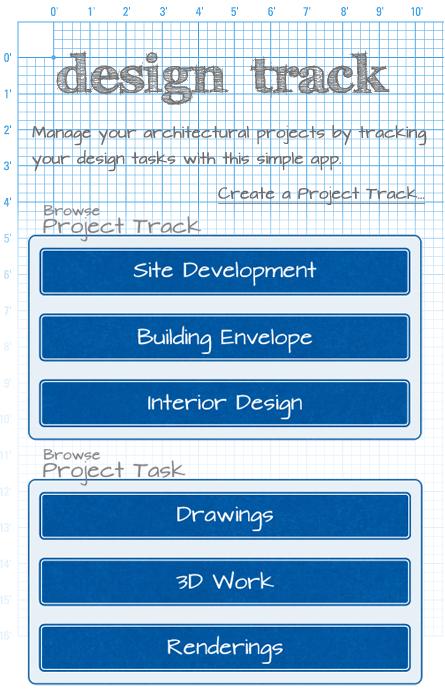
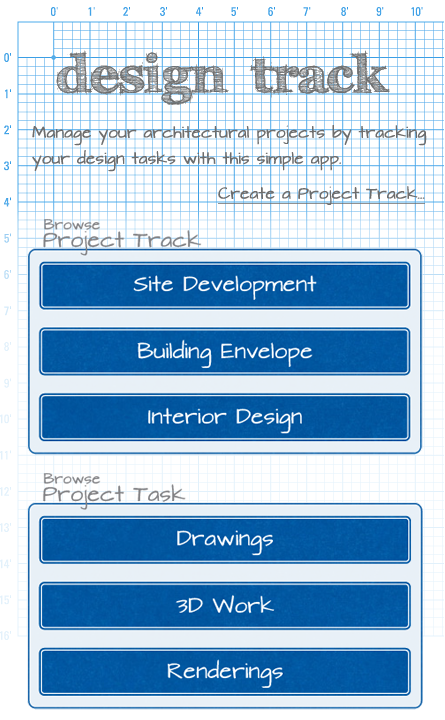
changes 04

diff --git a/CSS/stylehp.css b/CSS/stylehp.css
@@ -171,16 +171,16 @@ label{
 	text-align: right;
 }
 
-#feature{
-	
-}
 
 
 Body{
 	color:#284767;
 	font: 13px "Helvetica Neue", Arial, Helvetica, Geneva, sans-serif;
-	background: url(../Image/BG%20graphpaper.png) no-repeat 0 40px #ffffff;
-	height: 740px;
+	height: 750px;
+	background: url(../Image/BG%20graphpaper.png) no-repeat 0 40px;
+	/*-moz-box-shadow: 0 0;
+	-webkit-box-shadow: 0 0;
+	box-shadow: 0 0;*/
 }
 
 #addProject{
@@ -203,42 +203,46 @@ Body{
 }*/
 
 
-#Browse{
-	margin-top: 240px;
-	border: 2px solid white;
+/*#Browse{
+	/*margin-top: 240px;
+	/*border: 2px solid white;*!/
 	width: 410px;
 	height: 230px;
-	padding-top: 10px;
+	padding-top: 10px;*!/
+}*/
+
+#siteDeve{
+	/*background: url(../Image/siteDevelopment.png) no-repeat;
+	width: 300px;*/
 }
 
 #listOne{
-	background: url(../Image/BrwsProjectTrack.png) no-repeat 0 0;
-	margin-right: 0;
+	
 }
 
-.brws{
+/*.brws{
 	width: 410px;
 	margin-left: -40px;
+}*/
+
+
+/*#prjTrackTl{
+	text-shadow: 2px 2px 2px rgba(255, 255, 255, 0.75);
+	color: #284767;
+	font-size: 20px;
+	margin-top: 0;*/
 }
 
-
-#prjTrackTl{
+/*#browsePrj{
 	text-shadow: 2px 2px 2px rgba(255, 255, 255, 0.75);
 	color: #284767;
 	font-size: 20px;
 	margin-top: 0;
-}
-
-#browsePrj{
-	text-shadow: 2px 2px 2px rgba(255, 255, 255, 0.75);
-	color: #284767;
-	font-size: 20px;
-	margin-top: 0;
-}
+}*/
 
 
 
-#mess{
+/*#mess{
 	color: white;
 	font-size: 13px;
 	padding-top: 10px;
@@ -246,5 +250,5 @@ Body{
 	padding-left: 20px;
 	margin-bottom: -10px;
 	width: 410px;
-}
+}*/
 

diff --git a/homepage.html b/homepage.html
@@ -23,7 +23,6 @@
 			<input type="search" value="Search a Project" id="searchProject"/><input type="submit" value="Search" id="searchField"/>	
 		</header>
 		
-		<div id="feature">
 			<!--<h1>Design Track</h1>-->
 			<!--<p id="mess">Manage your architectural projects by tracking your design tasks with this simple app.</p>-->
 			<!--<fieldset id="createProject">-->
@@ -33,21 +32,21 @@
 			<!--</fieldset>-->
 		
 			
-			<fieldset id="Browse">
+			<!--<fieldset id="">-->
 				<!--<h2 id="browsePrj">Browse a Project Track</h2>-->
-				<ul id="listOne">
+				<!--<ul id="listOne">
 					<li><a href="#"><input type="submit" value="Site Development" id="siteDeve" class="brws"/></a></li>
 					<li><a href="#"><input type="submit" value="Building Envelope" id="bldgEnv" class="brws"/></a></li>
 					<li><a href="#"><input type="submit" value="Interior Design" id="intrDgn" class="brws"/></a></li>
-				</ul>
+				</ul>-->
 				
-				<h2 id="browsePrj">Browse a Project Task</h2>
-				<ul id="listTwo">
+				<!--<h2 id="browsePrj">Browse a Project Task</h2>-->
+				<!--ul id="listTwo">
 					<li><a href="#"><input type="submit" value="Drawings" id="dwg" class="brws"/></a></li>
 					<li><a href="#"><input type="submit" value="3D Work" id="trdWork" class="brws"/></a></li>
 					<li><a href="#"><input type="submit" value="Renderings" id="rndr" class="brws"/></a></li>
-				</ul>
-			</fieldset>
-		</div>
+				</ul>-->
+			<!--</fieldset>-->
+		
 	</body>
 </html>
